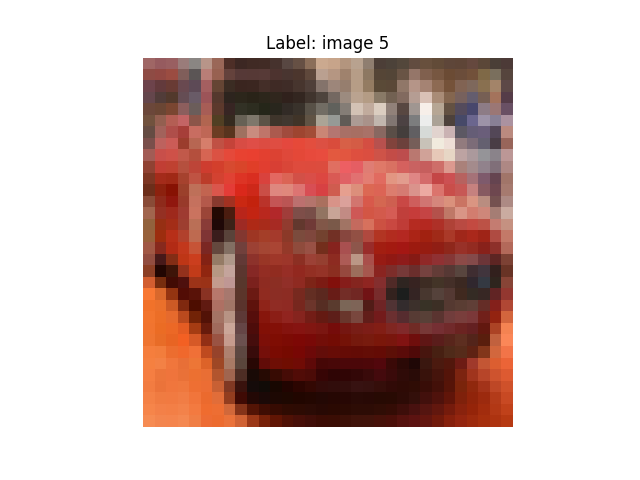
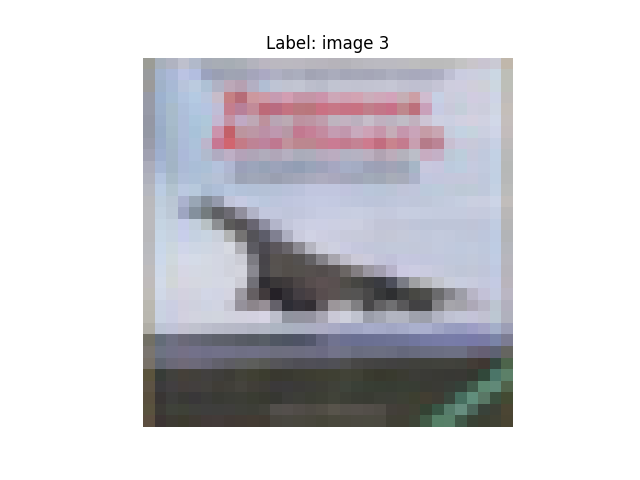
new changes

diff --git a/plot_i.py b/plot_i.py
@@ -6,17 +6,14 @@ import matplotlib
 print(matplotlib.get_backend())
 
 def plot(i):
-    img = cifar10loader.loadImageI(i)  # This is your custom function returning a torch Tensor
+    train_loader,test_loader,train_dataset,test_dataset = cifar10loader.loadcifar10()
+    img = cifar10loader.loadImageI(i,test_dataset)  # This is your custom function returning a torch Tensor
     mean = np.array([0.4914, 0.4822, 0.4465])
     std = np.array([0.2470, 0.2435, 0.2616])
 
     # Copy the tensor so we don't mutate the original
     img_for_plot = img.clone()
     img_for_plot = img_for_plot.cpu()
-
-    # 1) Unnormalize the image channel by channel, while it's still a torch Tensor
-    for c in range(3):
-        img_for_plot[c, :, :] = img_for_plot[c, :, :] * std[c] + mean[c]
 
     # 2) Now that unnormalization is done, permute *once* from [C,H,W] -> [H,W,C]
     img_for_plot = img_for_plot.permute(1, 2, 0)
@@ -29,4 +26,4 @@ def plot(i):
     plt.title(f"Label: image {i}")
     plt.axis('off')
     plt.savefig("my_image.png") 
-plot(5)
+plot(3)

diff --git a/main_cifar.py b/main_cifar.py
@@ -13,6 +13,7 @@ from training import Trainer
 import cifar10loader 
 
 # python main_cifar.py -ld cifar_10_full_dataset -fd -nl 5 -lss 20 -ni 250
+#python main_cifar.py -ld cifar_10_nl5_lss28_ni3000 -iid 3  -nl 5 -lss 22 -ni 3000
 parser = argparse.ArgumentParser()
 parser.add_argument("-ld", "--logdir", help="Path to save logs", default=f"/tmp/{getpass.getuser()}")
 parser.add_argument("-ni", "--num_iters", help="Number of iterations to train for", type=int, default=1000)
